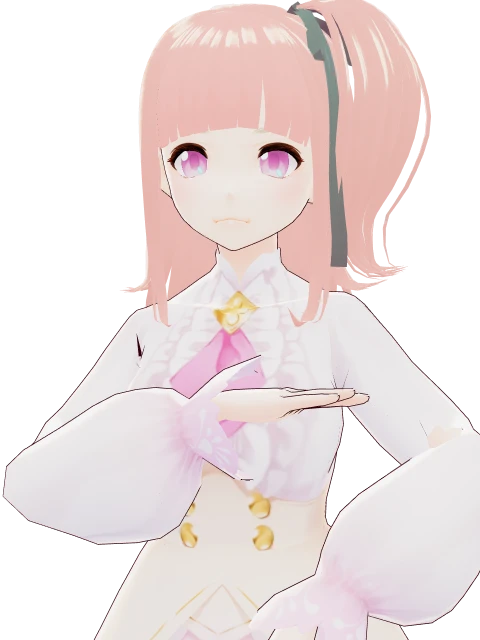
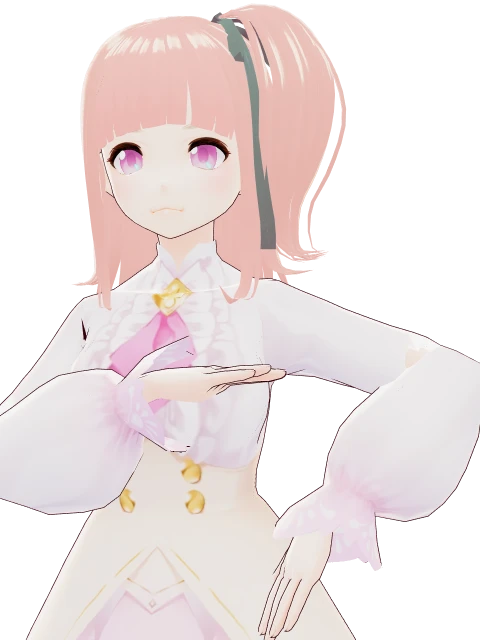
切入立绘自动取景：头顶、腰和两只手都框进画面，手不再被切掉
Claude-Session: https://claude.ai/code/session_01VmchnAXwCgbKV3qb1YaKiH

diff --git a/scripts/portrait-stage.ts b/scripts/portrait-stage.ts
@@ -80,6 +80,33 @@ function shoot(camera: THREE.PerspectiveCamera, w: number, h: number): string {
   return out.toDataURL('image/webp', 0.9);
 }
 
+// 切入立绘的镜头：从左前方稍微往上拍，框住头顶、腰和两只手（手指留出余量），手伸得再远也拍得进来
+function frame(cam: THREE.PerspectiveCamera, av: Avatar, head: THREE.Vector3): void {
+  const at = (n: 'hips' | 'leftHand' | 'rightHand') => av.vrm.humanoid!.getNormalizedBoneNode(n)!.getWorldPosition(new THREE.Vector3());
+  const top = head.clone().add(new THREE.Vector3(0, 0.22, 0));
+  const waist = at('hips').add(new THREE.Vector3(0, 0.04, 0));
+  const hands = [at('leftHand'), at('rightHand')];
+  const dir = new THREE.Vector3(-0.3, -0.06, -1).normalize();
+  const look = top.clone().add(waist).multiplyScalar(0.5);
+  let dist = 2;
+  for (let i = 0; i < 40; i++) {
+    cam.position.copy(look).addScaledVector(dir, dist);
+    cam.lookAt(look);
+    cam.updateMatrixWorld();
+    const right = new THREE.Vector3().setFromMatrixColumn(cam.matrixWorld, 0);
+    const up = new THREE.Vector3().setFromMatrixColumn(cam.matrixWorld, 1);
+    const pts = [top, waist];
+    for (const h of hands) for (const d of [right, up]) pts.push(h.clone().addScaledVector(d, 0.1), h.clone().addScaledVector(d, -0.1));
+    const ndc = pts.map((p) => p.clone().project(cam));
+    const [x0, x1] = [Math.min(...ndc.map((p) => p.x)), Math.max(...ndc.map((p) => p.x))];
+    const [y0, y1] = [Math.min(...ndc.map((p) => p.y)), Math.max(...ndc.map((p) => p.y))];
+    // 画面中心挪到这些点的正中间，再按超出（或空出）多少拉远拉近，四边各留 5%
+    const halfH = dist * Math.tan(THREE.MathUtils.degToRad(cam.fov / 2));
+    look.addScaledVector(right, ((x0 + x1) / 2) * halfH * cam.aspect).addScaledVector(up, ((y0 + y1) / 2) * halfH);
+    dist *= Math.max((x1 - x0) / 2, (y1 - y0) / 2) / 0.9;
+  }
+}
+
 // 给一个角色拍 5 张头像和 1 张切入立绘，返回 文件名 → webp 的 data URL
 export async function renderCharacter(id: string): Promise<Record<string, string>> {
   const look = LOOKS[id];
@@ -107,17 +134,14 @@ export async function renderCharacter(id: string): Promise<Record<string, string
   for (const n of ['leftUpperLeg', 'rightUpperLeg', 'leftLowerLeg', 'rightLowerLeg'] as const) {
     av.vrm.humanoid!.getNormalizedBoneNode(n)?.quaternion.identity();
   }
-  av.setRestPose(0, 0, look.pose === 'crossed' ? 'crossed' : 'lap');
+  // 没抬的那只手叉在腰边（借用扶桌沿的姿势，把“桌沿”放到腰的高度）；抱胸的角色还是抱胸
+  if (look.pose === 'crossed') av.setRestPose(0, 0, 'crossed');
+  else av.setRestPose(av.hipHeight + 0.12, -0.12, 'edge');
   av.reachTarget = av.root.localToWorld(new THREE.Vector3(pose.hand[0], av.hipHeight + pose.hand[1], pose.hand[2]));
   av.reachWeight = 1;
   const cut = new THREE.PerspectiveCamera(26, CUTIN_W / CUTIN_H, 0.05, 20);
   settle(av, headAt().add(new THREE.Vector3(-0.3, 0, -1.6)));
-  const top = headAt().y + 0.22;
-  const waist = av.vrm.humanoid!.getNormalizedBoneNode('hips')!.getWorldPosition(new THREE.Vector3()).y + 0.04;
-  const mid = new THREE.Vector3(0, (top + waist) / 2, headAt().z);
-  const dist = ((top - waist) / 2 / Math.tan(THREE.MathUtils.degToRad(cut.fov / 2))) * 1.06;
-  cut.position.copy(mid).add(new THREE.Vector3(-0.3, -0.06, -1).normalize().multiplyScalar(dist));
-  cut.lookAt(mid);
+  frame(cut, av, headAt());
   setFace(av, { ...FACE_MIX[pose.face], ...pose.extra });
   out[`${id}-cutin.webp`] = shoot(cut, CUTIN_W, CUTIN_H);
 
